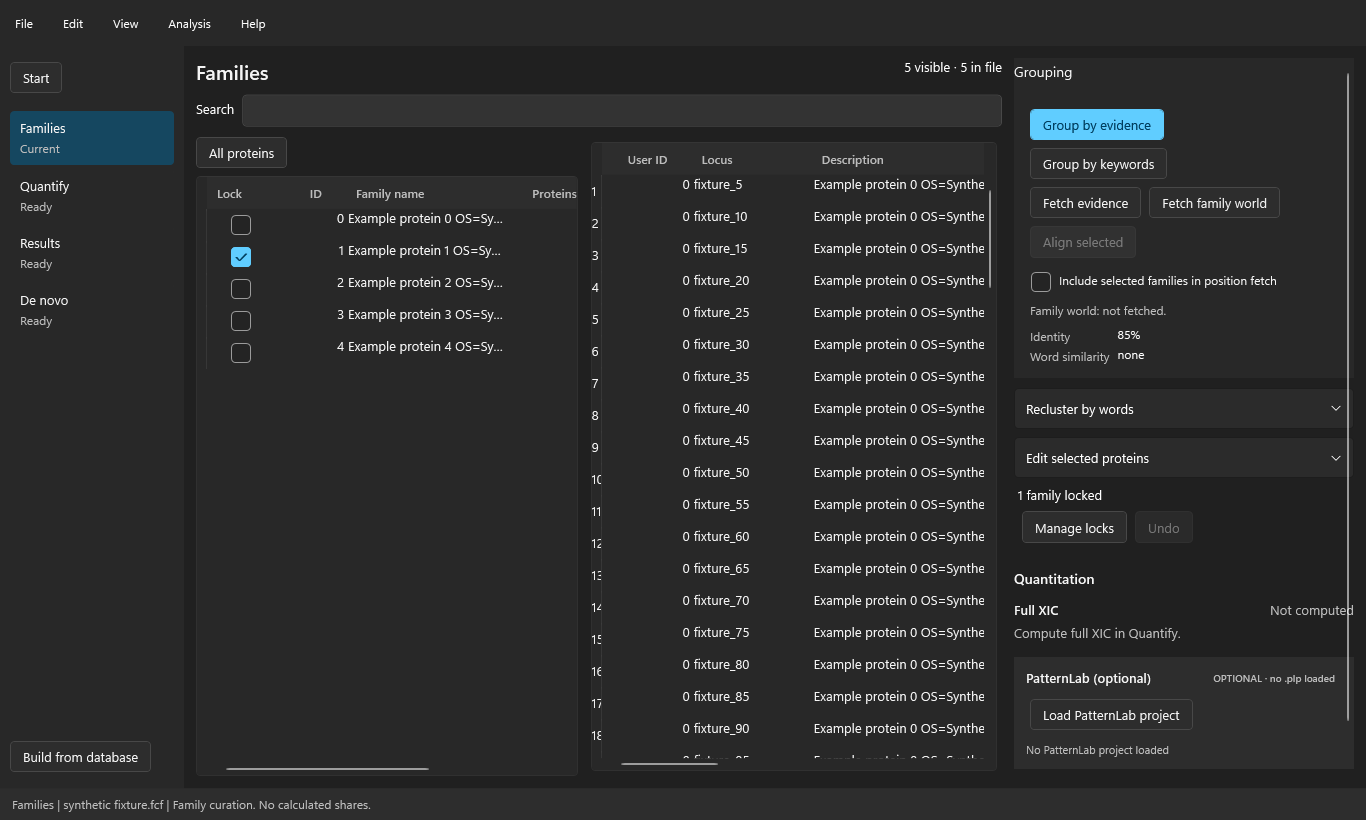
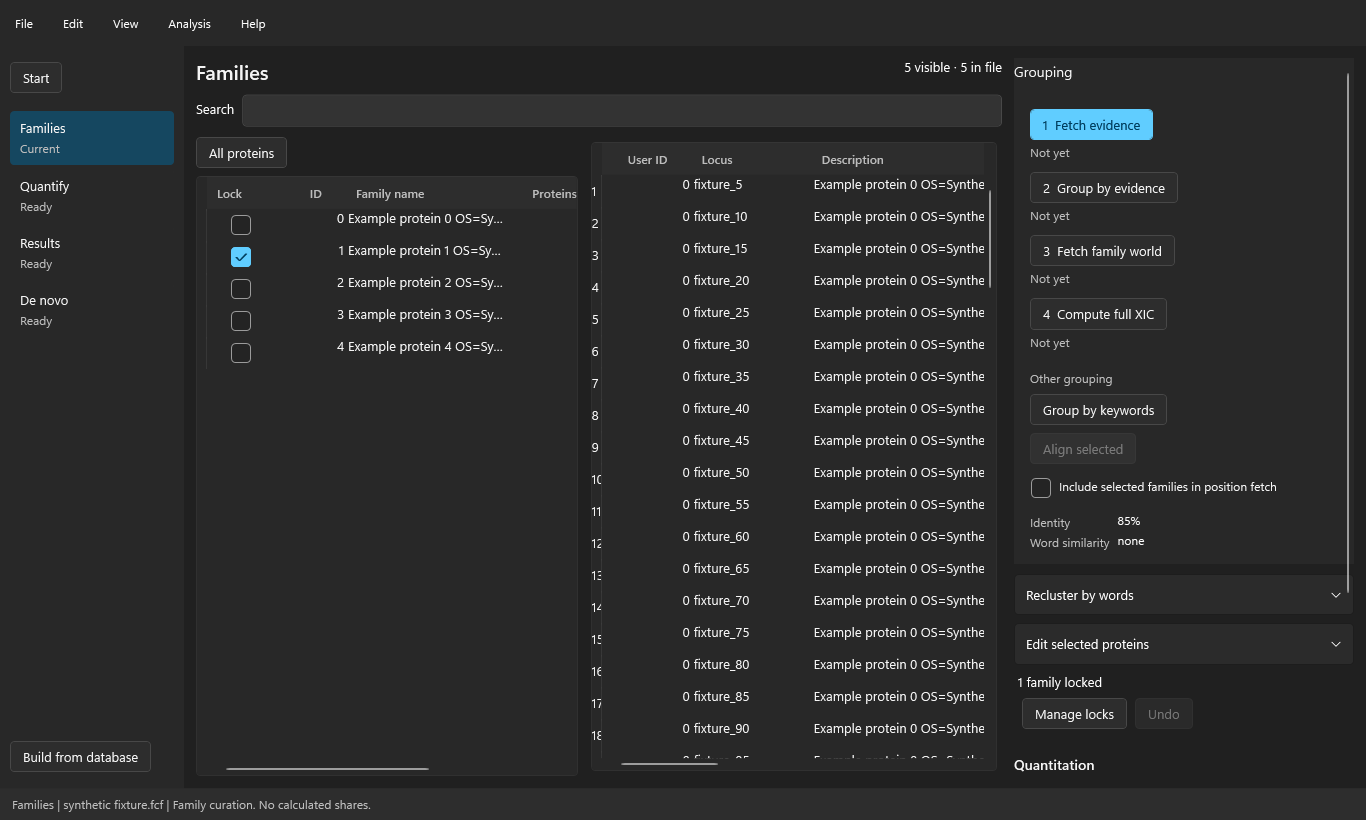
U4c show the guided Grouping panel in a synthetic dark capture

diff --git a/README.md b/README.md
@@ -94,7 +94,7 @@ Open **View > Families**. The **Grouping** panel highlights the next step and sh
 
 The **Read grouping task** screen counts the taxa it asks UniProt about and needs an internet connection.
 
-![Synthetic Families screen with evidence grouping controls](docs/images/app-families.png)
+![Synthetic dark Families screen with the four numbered Grouping steps, next-step highlight and status](docs/images/app-families.png)
 
 ### 4. Add inputs and compute
 
